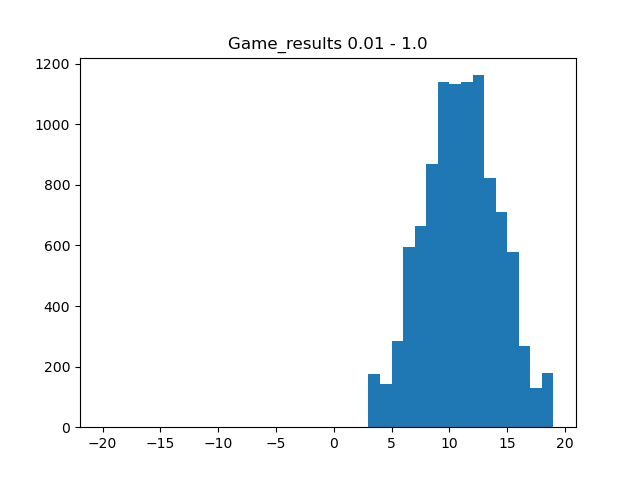
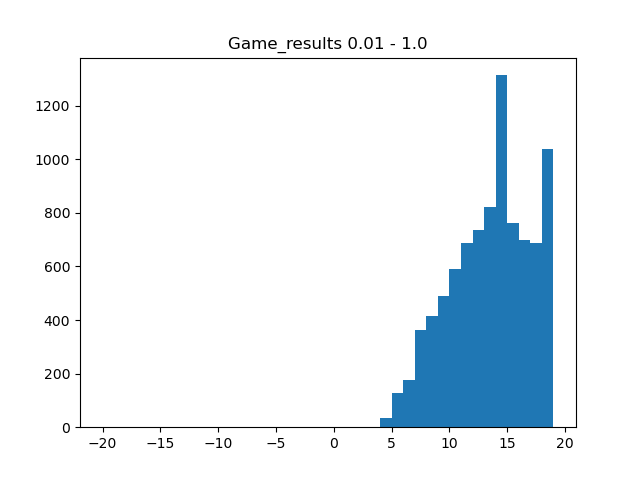
argmax

diff --git a/assignment_v0.1.py b/assignment_v0.1.py
@@ -75,9 +75,9 @@ class MyAgent(DiceGameAgent):
                     finished = False 
                     self.vals0[each_state] = [new_val, None, False]
             delta_time = time.process_time()-start_time
-            if finished or delta_time < 22:  # fear of timeout
+            if finished or delta_time > 22:  # fear of timeout
                 break
-        if debug: print("delta & init time", delta, time.process_time()-start_time)
+
         
         
         max_val = 0
@@ -92,11 +92,11 @@ class MyAgent(DiceGameAgent):
                         new_val += each_probability * (reward + self.gamma * self.vals0[state_dash][0])
                     else:
                         new_val += each_probability * (reward)
-                if new_val > max_val:
+                if new_val >= max_val:
                         max_val = new_val
                         max_act = act        # this is the hybrid stage of argmax
                 self.vals0[each_state] = [max_val, max_act]
-        
+        if debug: print("delta & init time", delta, time.process_time()-start_time)
 
     def play(self, state):
         # maybe if we are in the winning state, we can skip evaluating
